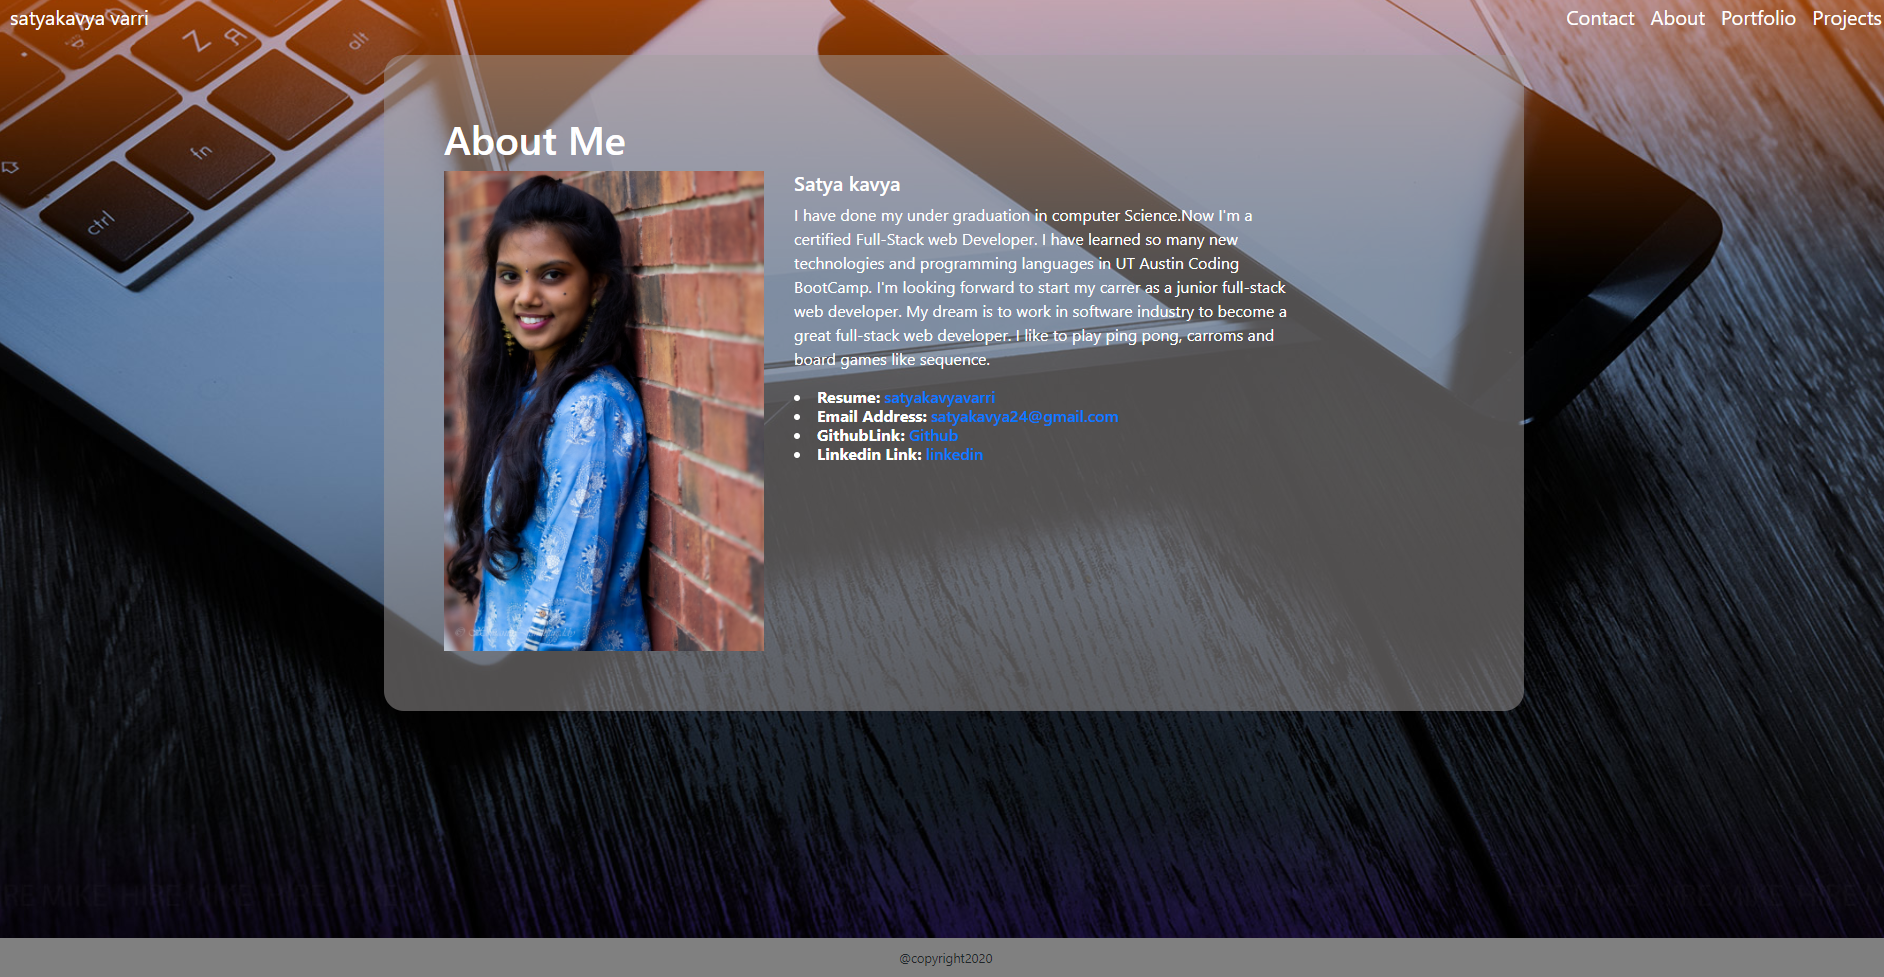
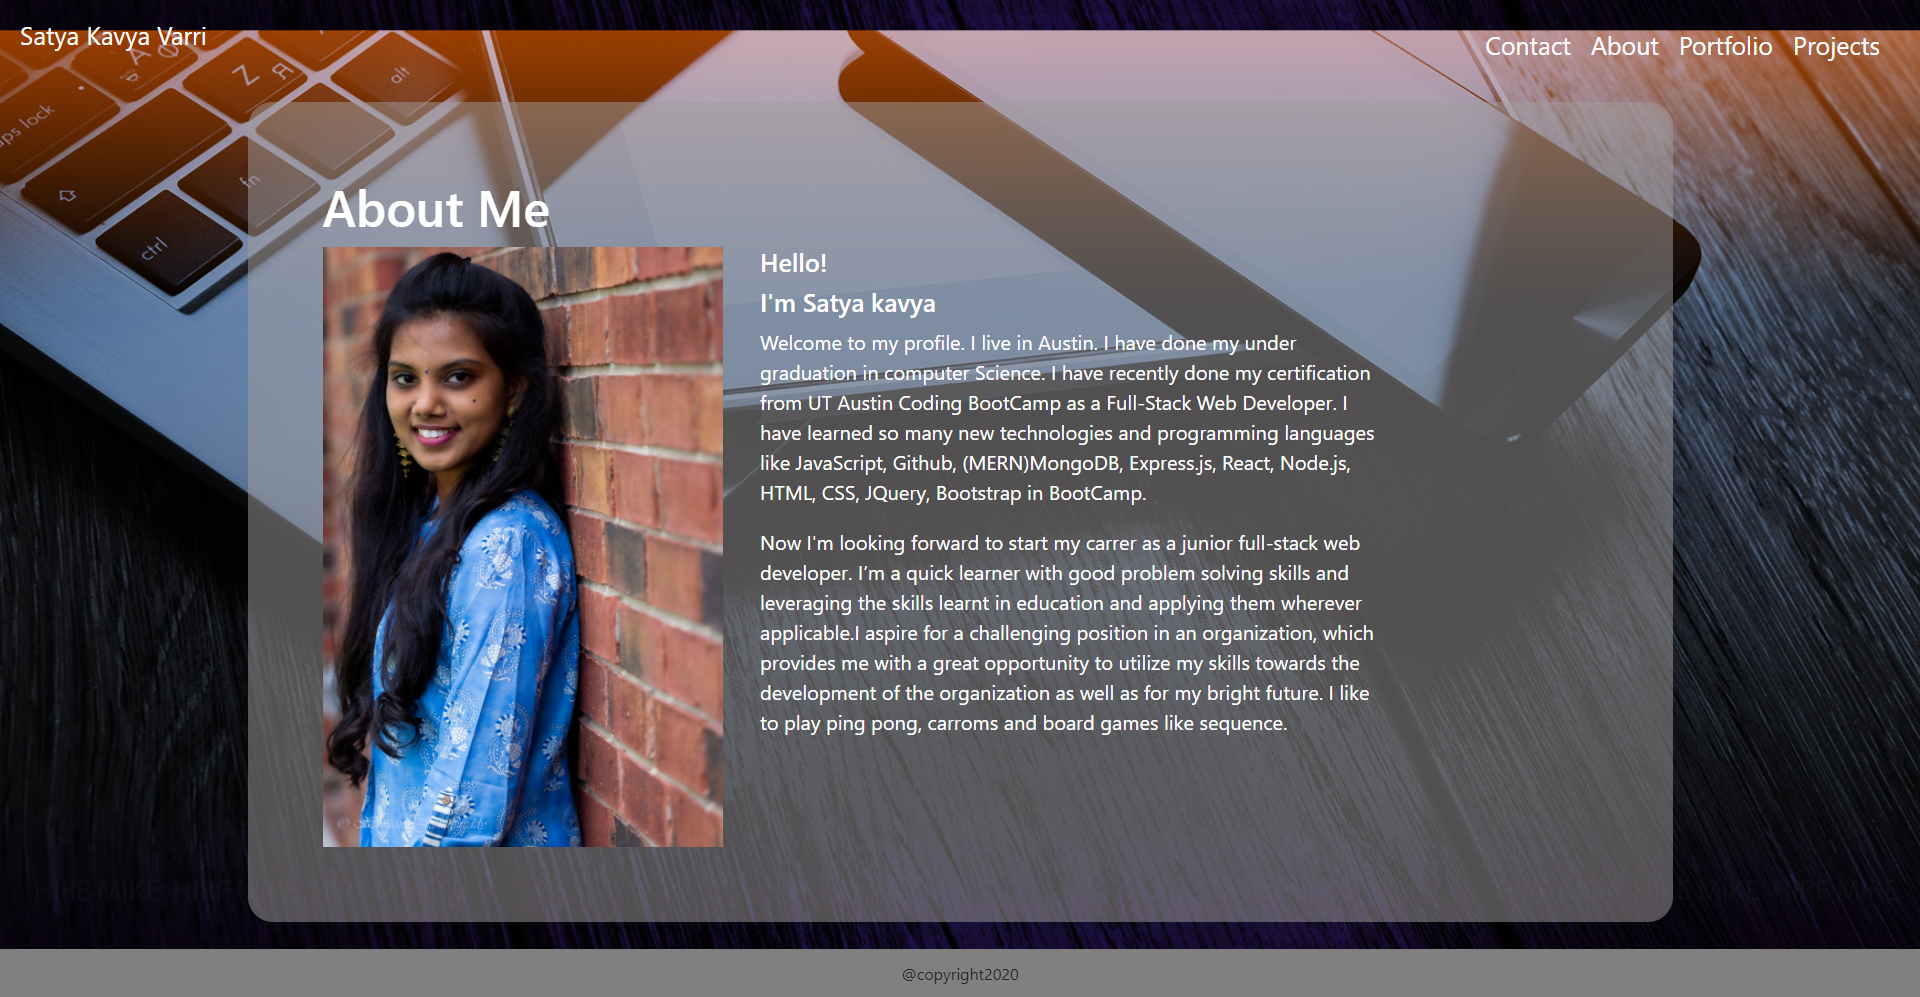
added about page to readMe

diff --git a/src/App.js b/src/App.js
@@ -14,7 +14,7 @@ const styles ={
 
    
     width: '100vw',
-    height: '220vh',
+    height: '240vh',
 
     backgroundPosition: "center",
     backgroundRepeat: "repeat",
